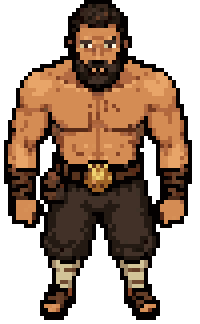
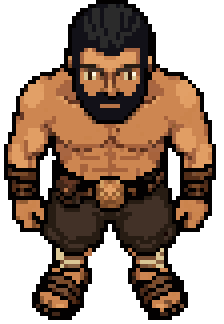
Art: human Vulcan's master redrawn from the game camera, matching Elvis (Task A3)
Higgsfield nano_banana_2_1, 8 candidates; h5b chosen: the high three-quarter
view, a big head about a quarter of his height, eyes redrawn by hand, a new
28-colour palette, a breathing idle_F.

diff --git a/art/vulcan_human/notes.md b/art/vulcan_human/notes.md
@@ -1,7 +1,41 @@
 # Vulcan, human: master sprite
 
-25 Oct 2026 (Task A1). Master: `master.png` (50x81), `master_x4.png`, `palette.png` (32 colours), `touchup.json`.
-Candidates side by side at 4x: `candidates_x4.png`.
+## The redo from the game camera (25 Oct 2026, afternoon, Higgsfield)
+
+The reviewers found the first master (below, `h3`) drawn front-on at eye level, not from the game camera, so he didn't
+match Elvis. The new master: `master.png` (56x81), `master_x4.png`, `palette.png` (28 colours), `touchup.json`,
+`idle_F.png` (`breathe.py`, holds 0.3/0.2 s like Elvis's). `candidates_x4.png`: the 8 new candidates cleaned to 80 px,
+left to right h4a-h4d, h5a, h5b (chosen), h5c, h5d.
+
+Generator: Higgsfield, `nano_banana_2_1` (Gemini's image model), 1k, 3:4, 1.5 credits each, references uploaded.
+
+| Raw | References (in order) | Verdict |
+| --- | --- | --- |
+| `h4a`, `h4b` | `guides/ref_elvis.png`, `guides/ref_vulcan_human.png` (the old master), the Unreal repo's `docs/refs/vulcan/02_full_body_apose.jpg` | Still front-on, a small head |
+| `h4c`, `h4d` | `ref_elvis.png`, `art/_work/human_ref_game_angle.png` (the Blender render at the game camera), `ref_vulcan_human.png` | The right camera, but a head a sixth of his height and a hulking body: at 80 px his face is a dark smear, no eyes |
+| `h5a`, `h5b` | `ref_elvis.png`, `ref_vulcan_human.png`, `h4c` (as "the right camera, but the head far too small") | **h5b chosen** |
+| `h5c`, `h5d` | `ref_vulcan_human.png`, `ref_elvis.png`: "redraw image 1 from image 2's camera" | Gemini handed back the old front-on sprite |
+
+**Why h5b:** the same high three-quarter view as Elvis: the top of his head and his swept-back near-black hair seen from
+above, the tops of his shoulders, short foreshortened legs, the feet from above, and a big head (about a quarter of his
+height, like Elvis's), so at 80 px his eyes, brows, beard, the gold lion buckle, the pouch, the wrist and calf wraps and
+the sandals all read. Beside the boss (`docs/progress/2026-10-25_human_master_redo.png`) he has the same near-black hair
+and beard and the same build under the armour.
+
+```
+uv run --with pillow --with numpy --with scipy python art/sprites.py art/vulcan_human/raw/h5b.png --cols 1 --rows 1 \
+    --height 80 --quant octree --touchup art/vulcan_human/touchup.json --palette art/vulcan_human/palette.png \
+    --out art/vulcan_human/master.png
+```
+
+(With no `palette.png` it writes a new one that includes the touch-up colours; every later sheet locks to it.)
+`touchup.json`: each eye is 3x2 px on rows 18-19 (x 21-23 and 31-33, symmetric about the nose at x 27): a cream white
+`#dac695`, a dark pupil `#331809` 2 px tall and a catch-light `#fff6e0` at its top right, with skin shadow `#b77448`
+between the eye and the nose; the brows above (row 17) are the hair's brown `#423127`, so the pupils don't merge into them.
+
+## The first master (25 Oct 2026, night, Task A1; replaced)
+
+Master: `master.png` (50x81), `palette.png` (32 colours), `touchup.json`.
 
 ## References given to Gemini
 
